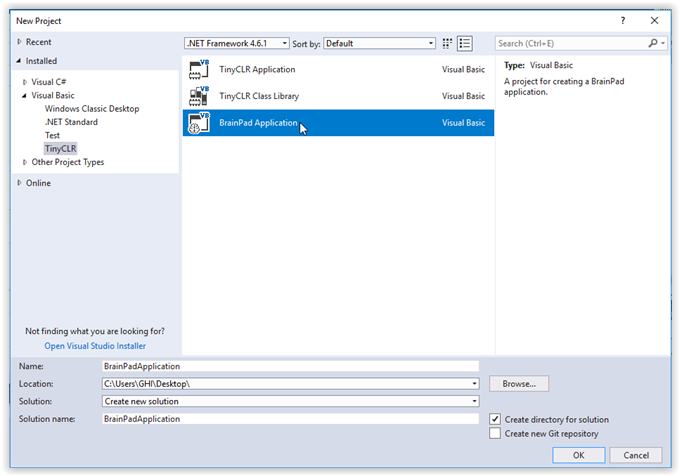
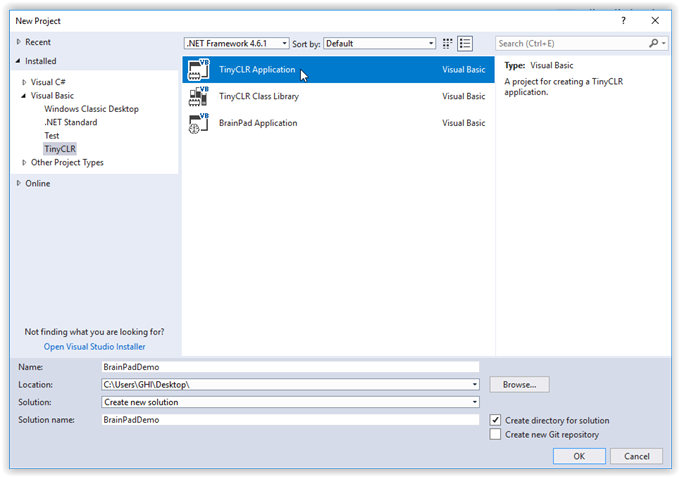
Updated system-setup page and other changes.

diff --git a/go-beyond/system-setup.md b/go-beyond/system-setup.md
@@ -3,7 +3,7 @@
 
 TinyCLR OS is the tiny operating system that lets the BrainPad work with .NET and Microsoft Visual Studio, both in C# and in Visual Basic. This professional development setup requires some system preparation before we can start having fun!
 > [!Tip]
-> You can learn more about TinyCLR OS on the [GHI Electronics website](https://www.ghielectronics.com/tinyclr/features)
+> You can learn more about TinyCLR OS on the [**GHI Electronics website**](https://www.ghielectronics.com/tinyclr/features)
 
 ## Step 1: Install the Necessary Software
 ---
@@ -35,6 +35,39 @@ In the `VSIX Installer` dialog box click the `Install` button.
 
 ![Install VSIX](images/install-vsix.png)
 
+### Download and Install the TinyCLR Nuget Packages
+
+1. Since TinyCLR OS is still so new, we haven't yet uploaded any packages to NuGet.  Download the newest [libraries](downloads.md#libraries), extract the archive, and place them in a [local NuGet feed](https://docs.nuget.org/ndocs/hosting-packages/local-feeds).
+2. Connect your device to your PC using a USB cable (make sure your device has the latest firmware installed).
+3. Start Visual Studio and create a new `TinyCLR Application` under `C# > TinyCLR`. New to Visual Studio or C#? Take a look at the [getting started guide from Microsoft](https://docs.microsoft.com/en-us/dotnet/csharp/getting-started/with-visual-studio).
+4. Right click on your Project in the Solution Explorer and select `Manage NuGet Packages`.  If the Solution Explorer window is not visible, open it by selecting `Solution Explorer` in the `View` menu.
+![View Show Solution Explorer](images/SelectManageNugetPackages.jpg)
+
+5. Select the `Package Source` settings icon. 
+![Setting Nuget Package Source](images/SettingNugetPackageSource.jpg) 
+
+6. Click the `+` button to add a new Package source. 
+![Add Package Source](images/AddPackageSource.jpg)
+
+7. Select the location where the NuGet packages are stored locally, by pressing the `...` button. 
+![Choose Local NuGet Package Folder](images/ChooseLocalNuGetPackageFolder.jpg)
+
+8. After Selecting the local folder where the downloaded NuGet packages are, you can select the `Installed` Tab to view the installed NuGet Packages. 
+![Show Installed NuGet Packages](images/ShowInstalledNuGetPackages.jpg)
+
+9. Selecting the `Browse` tab will show all the NuGet packages located in your local NuGet feed. Those installed are noted with a green check mark in front of the name. 
+![Browse Local NuGet Feed](images/BrowseLocalNuGetFeed.jpg)
+
+10. To install one of the packages click on the package name, click the check box to the right under "Version(s)," and click on the `Install` button.
+![Add Nuget Package](images/AddNuGetPackage.jpg)
+
+11. Accept the licensing agreement to install the package.
+![Accept Agreement for NuGet](images/AcceptAgreementforNuGet.jpg)
+
+And, that's it! You're now ready to start programming using TinyCLR OS.
+
+
+
 ## Step 2: Prepare the BrainPad
 ---
 
@@ -44,7 +77,7 @@ In the `VSIX Installer` dialog box click the `Install` button.
 To prepare the BrainPad you only need to install the latest firmware as shown below.
 
 1. Download and save the TinyCLR OS v0.10 firmware from [Downloads](../resources/downloads.md). We recommend saving the firmware file on your desktop.
-2. Connect the BrainPad to your computer using a micro USB cable. The PWR light on the BrainPad should be on.
+2. Connect the BrainPad to your computer using a micro USB cable. The power (PWR) light on the BrainPad should be on.
 3. Press and hold the RESET button on the BrainPad for at least three seconds until the Light Bulb on the BrainPad lights up green.
 4. A window will open named `BrainPad2`. Drag the firmware file from step 1 into this window.
 5. The Light Bulb on the BrainPad will flicker and a progress gauge will appear on the computer screen.
@@ -55,29 +88,8 @@ To prepare the BrainPad you only need to install the latest firmware as shown be
 > [!Note]
 > The BrainPad comes with a "bootloader" pre-installed. You shouldn't have to reinstall it unless you are an advanced user using advanced programming techniques. Check out our [**bootloader**](../resources/bootloader.md) page to find out more.
 
-
-## Step 3: Test Application
----
-
-Start Visual Studio. Click on the `File` menu, then click on `New` and then `Project`. The `New Project` dialog box will open.
-
-![Start New Visual Studio Project](csharp/images/introduction/start-new-project.png)
-
-The small triangle to the left of each heading in the left column of the dialog box will expand (or show) the options underneath it. Under the `Installed` heading you should find the `Visual C#` and `Visual Basic` programming languages listed. Under each of these languages you should see the `TinyCLR` option.
-
-![TinyCLR in Visual Studio](images/tinyclr-in-vs.png)
-
-From under `Visual C#` select `TinyCLR` and then Select `TinyCLR Application`. Give your project a name and a location. We will name it `BrainPadTest` and place it on the Desktop. Visual Studio will now generate a project that you can deploy to the BrainPad.
-
-Connect the BrainPad to the PC and click `Start` or press the `F5` key. Visual Studio will now compile the project and deploy the application to the BrainPad through the USB cable.
-
-(image)
-
-If you have any problems go back and make sure you followed all the steps listed above.  If you're still having problems go to the [Troubleshooting Guide](../resources/troubleshooting-guide.md).
-
----
 ## Going Beyond!
-Congatulations! You are now ready to start developing like a professional. You have the option of using the [C#](csharp/intro.md) programming language or the [Visual Basic](vb/intro.md) programming language. If you are not sure which one to pick, C# is used more often in the professional world and is recommended for those serious about learning programming. Visual Basic is easier to use -- especially for beginners. We use C# for our own software development, but we usually start with Visual Basic for those who are new to programming.
+Congratulations! You are now ready to start programming like a professional. You have the option of using the [C#](csharp/intro.md) programming language or the [Visual Basic](vb/intro.md) programming language. If you are not sure which one to pick, C# is used more often in the professional world and is recommended for those serious about learning programming. Visual Basic is easier to use -- especially for beginners. We use C# for our own software development, but we usually start with Visual Basic for those who are new to programming.
 
 You are not locked in to one language -- you can freely switch between C# and Visual Basic.
 

diff --git a/go-beyond/vb/intro.md b/go-beyond/vb/intro.md
@@ -2,35 +2,32 @@
 ---
 Visual Basic is a very popular Microsoft .NET programming language. While being as powerful as other programming languages, it is perhaps a little easier for beginners.  Visual Basic is more like plain English than other programming languages, and you don't have to type a semicolon (;) at the end of each line like you do with C, C++, and C#.  
 
-> [!Tip]
-> Before you start you should have already gone through the [System Setup](../system-setup.md).  If not, do so before proceeding.
-
 ## Before you start
 
 You should have already installed Visual Studio on your computer as well as the TinyCLR extension.  If not, please start with [System Setup](../system-setup.md) for instructions on how to do so.
 
-Also, you need a BrainPad and a micro USB cable to continue.  Plug the BrainPad into the USB port of your computer.  The red power light on the BrainPad should be on.
+Also, you need a BrainPad and a micro USB cable to continue.  Plug the BrainPad into the USB port of your computer.  The red power (PWR) light on the BrainPad should be on.
 
 ## Hello World
 
 The first step is to write some very simple code to see if the BrainPad will respond when we try to program it.  This is usually called a "hello world" program.
 
 ### Start a New Project
-Open Visual Studio.  In the `File` menu select `New` and then `Project` to open the "New Project" dialog box.
+Open Visual Studio.  In the `File` menu select `New` and then `Project` to open the `New Project` dialog box.
 
 ![Start New Visual Studio Project](../csharp/images/introduction/start-new-project.png)
 
 In the left panel of the  `New Project` window you can click on the small triangles to the left of each heading to expand the heading and show the options beneath it.
 
-You should see the `Visual Basic` language listed under the "Installed" heading in the left panel of the "New Project" window.
+You should see the `Visual Basic` language listed under the `Installed` heading in the left panel of the `New Project` window.
 
-Under "Visual Basic" select the "TinyCLR" option.
+Under `Visual Basic` select the `TinyCLR` option.
 
-In the center panel of the "New Project" window select "BrainPad Application".
+In the center panel of the `New Project` window select `TinyCLR Application`.
 
-At the bottom of the "New Project" window you can change the name and location of your application or just stick with the default.  When starting out you may wish to click on the `Browse` button and select the folder "Desktop" (in the left panel) to make your application easier to find.
+At the bottom of the `New Project` window you can change the name and location of your application or just stick with the default.  When starting out you may wish to click on the `Browse` button and select the folder `Desktop` (in the left panel) to make your application easier to find.
 
-Click the `OK` button on the bottom right of the "New Project" window.  This will create a new blank project.
+Click the `OK` button on the bottom right of the `New Project` window.  This will create a new blank project.
 
 ![Start New Project](images/introduction/new-project-window.png)
 
@@ -42,7 +39,9 @@ Once created, you'll be presented with a `Program.vb` tab.
 In the `Program.vb` tab we will enter short sample program (our "Hello World" code). Cut and paste the following code into the `Program.vb` window.
 
 ```
-Class Program
+Imports GHIElectronics.TinyCLR.BrainPad
+
+Module Module1
     Public Sub Main()
         BrainPad.Display.DrawTextAndShowOnScreen(0, 0, "Hello!")
 
@@ -53,7 +52,7 @@ Class Program
             BrainPad.Wait.Seconds(1)
         End While
     End Sub
-End Class
+End Module
 
 Public Class BrainPad
     Public Shared ReadOnly Property Accelerometer As Accelerometer = New Accelerometer()
@@ -68,13 +67,34 @@ Public Class BrainPad
 End Class
 ```
 
+### Manage the NuGet Packages
+Visual Basic source files are listed in the `Solution Explorer` window.  If the `Solution Explorer` window is not visible, click on `View > Solution Explorer` to open it.
+
+![Solution Explorer](images/solution-explorer.png)
+
+If you right click on the project name in the Solution Explorer window a drop down menu will appear.  Select `Manage NuGet Packages...` from the menu.
+
+![View Show Solution Explorer](images/manage-nuget-packages-menu.png) 
+
+Now you should see the installed TinyCLR NuGet library (GHIElectronics.TinyCLR.Core).  This is the only library we will need for our "hello world" program.
+
+![Installed NuGet](images/installed-nuget.png)
+
+Close the `NuGet...` tab or click on the `Program.cs` tab to edit the source code.  Change the contents as shown below.
+
+![Hello World Program](images/hello-world-program.png)
+
+Make sure your device is plugged into the computer's USB port.  Now hit the start button as shown on the above image (or hit the `F5` key).  If you've done everything correctly the program will compile and deploy to your device.  The message "Hello World!" should appear on the BrainPad display, and the light bulb should start blinking.
+
+Congratulations!  You're on your way to learning advanced programming on the BrainPad!
+
 ### Deploy the Program
 
 Let's run the program now to see the code come to life. If your BrainPad is not connected to your computer with a micro USB cable connect it now. Press the `F5` function key or the `Start` button (shown below) to copy the program from your computer to your BrainPad.
 
 ![Start Button](../csharp/images/introduction/start-button.png)
 
-Visual Studio will now tell your BrainPad to run the code.  A few things will happen and the display will now show the text "Hello!" and the light bulb (or LED) will blink.
+Visual Studio will now tell your BrainPad to run the code.  A few things will happen and the BrainPad display will now show the text "Hello!" and the light bulb (or LED) will blink.
 
 What happened exactly? Our application began by running the `BrainPad.Display.DrawTextAndShowOnScreen(0, 0, "Hello!")` line to instruct the display to show the text "Hello!"
 

diff --git a/start-making/intro.md b/start-making/intro.md
@@ -20,9 +20,10 @@ When you get your program working on the simulator, you can just drag and drop i
 ## A Quick Test!
 Run this quick test to verify your BrainPad is ready:
 
-1. Press and hold the reset button for about 3 seconds. The LightBulb should turn green and the computer should see a new drive.
-2. Download [this file]() and save it in the drive that came up in the previous step.
-3. The green LED will flash a little then the board will reset and you will see someting like the image below.
+1. Plug your BrainPad into a computer running Windows using a micro USB cable. The red PWR LED on the BrainPad should light up.
+2. Press and hold the reset button for about 3 seconds. The BrainPad LightBulb should turn green and the computer should find a new drive and open a window for it.
+3. Download [this file]() and save it in the drive that came up in the previous step.
+4. The green LED will flash a little then the board will reset and you will see someting like the image below.
 
 If any of the steps above failed, visit this [Troubleshooting Guide](..\resources\troubleshooting-guide.md)
 
